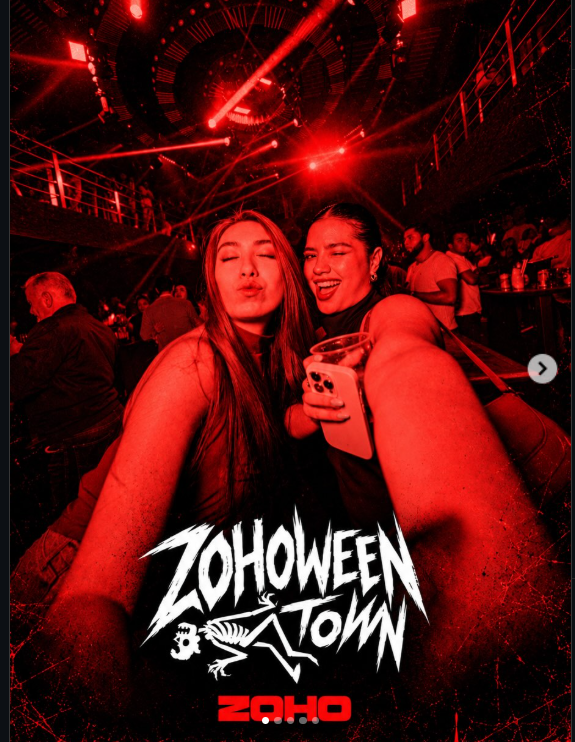
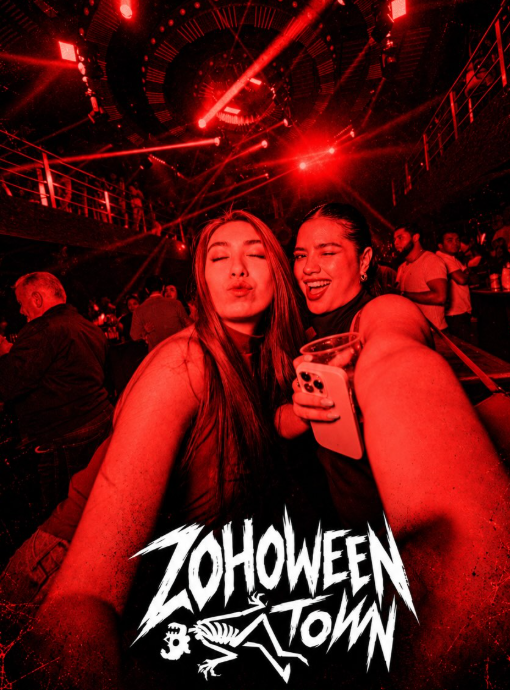
Clean Instagram UI from photos, dark gallery borders, mobile gallery swipe strip

diff --git a/halloween.html b/halloween.html
@@ -366,7 +366,7 @@ section{padding-block:36px 16px; position:relative; z-index:2;}
 .zoom-grid{display:grid; grid-template-columns:repeat(auto-fit,minmax(260px,1fr)); gap:24px; margin-top:26px;}
 .zoom-tile{
   position:relative; overflow:hidden; cursor:zoom-in;
-  border:3px solid var(--line); box-shadow:6px 6px 0 var(--shadow);
+  border:3px solid #000; box-shadow:6px 6px 0 var(--shadow), 0 0 30px rgba(226,20,42,0.22);
   transition:transform 0.15s ease;
 }
 .zoom-tile:hover{transform:translate(-2px,-2px);}
@@ -377,7 +377,7 @@ section{padding-block:36px 16px; position:relative; z-index:2;}
 .zoom-tile .cap{position:absolute; left:0; right:0; bottom:0; padding:14px; font-family:'Bangers'; font-size:20px; color:#fff; background:linear-gradient(0deg, rgba(0,0,0,0.8), transparent);}
 .lightbox{position:fixed; inset:0; z-index:95; background:rgba(8,4,4,0.94); display:none; align-items:center; justify-content:center; padding:24px; cursor:zoom-out;}
 .lightbox.open{display:flex;}
-.lightbox img{max-width:100%; max-height:86vh; border:4px solid var(--bone);}
+.lightbox img{max-width:100%; max-height:86vh; border:4px solid #000; box-shadow:0 0 50px rgba(226,20,42,0.4);}
 
 /* contact */
 .contact-grid{display:grid; grid-template-columns:repeat(auto-fit,minmax(220px,1fr)); gap:22px; margin-top:26px;}
@@ -430,6 +430,11 @@ footer{
   .fx2{bottom:auto; top:8px; left:12px;}
   .row2{grid-template-columns:1fr;}
   .card{flex:0 0 102px;}
+  .zoom-grid{display:flex; gap:14px; overflow-x:auto; scroll-snap-type:x mandatory; padding:4px 4px 16px; margin-top:18px; -webkit-overflow-scrolling:touch;}
+  .zoom-tile{flex:0 0 72%; scroll-snap-align:start; box-shadow:4px 4px 0 var(--shadow);}
+  .zoom-tile .cap{font-size:16px; padding:10px;}
+  .zoom-grid::-webkit-scrollbar{height:6px;}
+  .zoom-grid::-webkit-scrollbar-thumb{background:var(--red);}
   .contact-grid{grid-template-columns:1fr 1fr; gap:14px; margin-top:18px;}
   .contact-grid .panel{padding:14px 12px; display:flex; flex-direction:column; box-shadow:4px 4px 0 var(--shadow);}
   .contact-grid .label{font-size:10px; letter-spacing:0.1em;}
@@ -569,12 +574,12 @@ footer{
         <span class="cap">El anillo, encendido</span>
       </div>
       <div class="zoom-tile" data-full="assets/zoho-poster.png">
-        <div class="frame"><img src="assets/zoho-poster.png" alt="Afiche Zohoween Town" loading="lazy" width="392" height="527"></div>
+        <div class="frame"><img src="assets/zoho-poster.png" alt="Afiche Zohoween Town" loading="lazy" width="328" height="522" style="object-position:50% 0%"></div>
         <div class="tint"></div>
         <span class="cap">Zohoween Town</span>
       </div>
       <div class="zoom-tile" data-full="assets/zoho-floor.png">
-        <div class="frame"><img src="assets/zoho-floor.png" alt="Pista llena en Zoho" loading="lazy" width="575" height="742"></div>
+        <div class="frame"><img src="assets/zoho-floor.png" alt="Pista llena en Zoho" loading="lazy" width="510" height="690"></div>
         <div class="tint"></div>
         <span class="cap">La pista</span>
       </div>
